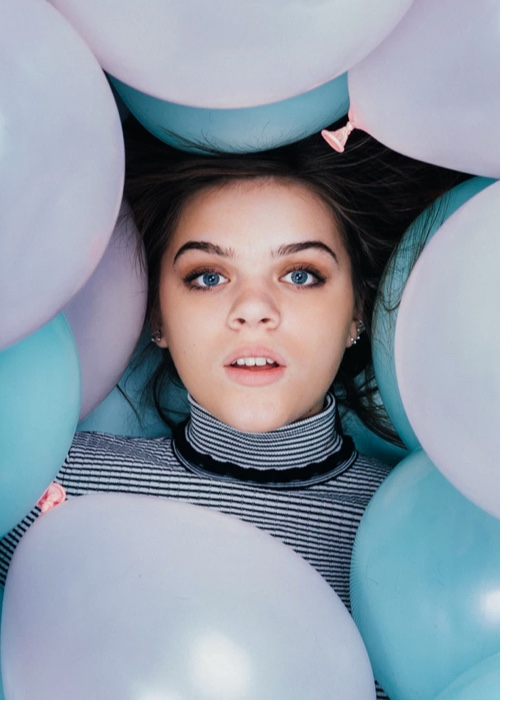
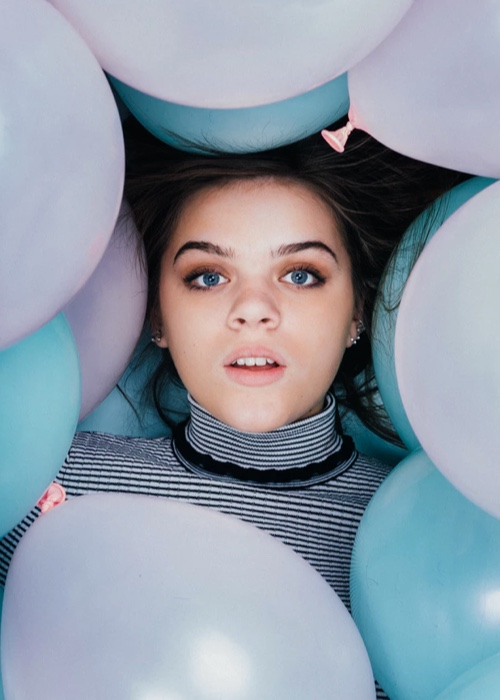
changed some photos and class names

diff --git a/index.html b/index.html
@@ -12,38 +12,47 @@
 	<link rel="icon" href="assets/Favicon.png" type="image/x-icon" />
 </head>
 <body>
+
+	<!-- HEADER SECTION STARTS -->
 	<header class="header">
-		<nav class="header__nav">
-			<ul class=header__list>
-				<li class="header__item">
-					<a href="#" class="header__link header__link--active">Home</a>
+
+		<!-- NAV SECTION -->
+		<nav class="header__nav nav">
+			<ul class=nav__list>
+				<li class="nav__item">
+					<a href="index.html" class="nav__link nav__link--active">Home</a>
 				</li>
-				<li class="header__item">
-					<a href="#" class="header__link">About</a>
+				<li class="nav__item">
+					<a href="#" class="nav__link">About</a>
 				</li>
-				<li class="header__item">
-					<h2 class="header__item header__item--title content-heading">Harper</h2>
+				<li class="nav__item">
+					<h2 class="nav__item nav__item--title content-heading">Harper</h2>
 				</li>
-				<li class="header__item">
-					<a href="#" class="header__link">Blog</a>
+				<li class="nav__item">
+					<a href="blog.html" class="nav__link">Blog</a>
 				</li>
-				<li class="header__item">
-					<a href="#" class="header__link">Contact</a>
+				<li class="nav__item">
+					<a href="contact.html" class="nav__link">Contact</a>
 				</li>
 			</ul>
 		</nav>
+
+		<!-- HEADER HERO CONTENT -->
 		<div class="header__wrapper wrapper">
-			<div>
-				<div>
-					<img src="/assets/home-image-1.jpg" alt="">
-				</div>
-				<div>
-					<h1 class="main-heading">Harper</h1>
-				</div>
+			<div class="header__img-container">
+				<img class="header__img img" src="/assets/home-image-1.jpg" alt="a portrait of a young person laying down surrounded by balloons">
+			</div>
+			<div class="header__hero-text-container">
+				<h1 class="header__hero-text main-heading">Harper</h1>
 			</div>
 		</div>
 	</header>
+	<!-- HEADER ENDS -->
+
+	<!-- MAIN STARTS -->
 	<main>
+
+		<!-- BIO SECTION -->
 		<section class="bio">
 			<div class="wrapper">
 				<div>
@@ -122,6 +131,7 @@
 			</div>
 		</section>
 	</main>
+	<!-- FOOTER STARTS -->
 	<footer class="footer">
 		<p class="footer__text copy-text">Copyright &copy;2018 HackerYou</p>
 	</footer>

diff --git a/style.css b/style.css
@@ -237,6 +237,10 @@ a {
   font-size: 2rem;
   line-height: 32px; }
 
+.img {
+  width: 100%;
+  display: block; }
+
 .btn {
   font-family: "Oswald", sans-serif;
   padding: 20px 40px;
@@ -253,36 +257,35 @@ a {
   background: #171717;
   color: #f38d8d; }
 
-.header__nav {
+.nav {
   background: #b9dde7; }
-
-.header__list {
-  display: -webkit-box;
-  display: -ms-flexbox;
-  display: flex;
-  -webkit-box-pack: center;
-  -ms-flex-pack: center;
-  justify-content: center;
-  -webkit-box-align: center;
-  -ms-flex-align: center;
-  align-items: center; }
-
-.header__link {
-  padding: 10px 40px;
-  font-family: "Oswald", sans-serif;
-  color: #171717;
-  text-transform: uppercase;
-  letter-spacing: 2px;
-  -webkit-transition: color .2s;
-  -o-transition: color .2s;
-  transition: color .2s; }
-  .header__link:hover {
-    color: #4a4a4a; }
-  .header__link--active {
-    color: #f6f6f6; }
-
-.header__item--title {
-  padding: 0 50px; }
+  .nav__list {
+    display: -webkit-box;
+    display: -ms-flexbox;
+    display: flex;
+    -webkit-box-pack: center;
+    -ms-flex-pack: center;
+    justify-content: center;
+    -webkit-box-align: center;
+    -ms-flex-align: center;
+    align-items: center; }
+  .nav__link {
+    padding: 10px 40px;
+    font-family: "Oswald", sans-serif;
+    color: #171717;
+    text-transform: uppercase;
+    letter-spacing: 2px;
+    -webkit-transition: color .2s;
+    -o-transition: color .2s;
+    transition: color .2s; }
+    .nav__link:hover {
+      color: #4a4a4a; }
+    .nav__link--active {
+      color: #f6f6f6; }
+      .nav__link--active:hover {
+        color: #f6f6f6; }
+  .nav__item--title {
+    padding: 0 50px; }
 
 .footer {
   background: #171717; }

diff --git a/partials/_navAndFooter.scss b/partials/_navAndFooter.scss
@@ -1,7 +1,8 @@
-.header{
-    &__nav {
-        background: $main-color;
-    }
+
+// NAV STYLES
+
+.nav {
+    background: $main-color;
 
     &__list {
     // width: 60%;
@@ -11,24 +12,31 @@
     }
 
     &__link {
-        padding: 10px 40px;
-        font-family: $primary-font;
-        color: $black;
-        text-transform: uppercase;
-        letter-spacing: 2px;
-        transition: color .2s;
+    padding: 10px 40px;
+    font-family: $primary-font;
+    color: $black;
+    text-transform: uppercase;
+    letter-spacing: 2px;
+    transition: color .2s;
+
         &:hover {
             color: lighten($black, 20);
         }
         &--active {
             color: $white;
+            &:hover{
+                color: $white;
+            }
         }
+        
     }
 
     &__item--title {
         padding: 0 50px;
     }
-}  
+} 
+
+// FOOTER STYLES
 
 .footer {
     background: $black;

diff --git a/blog.html b/blog.html
@@ -12,6 +12,34 @@
     <link rel="icon" href="assets/Favicon.png" type="image/x-icon" />
 </head>
 <body>
+	<header class="header">
+		<nav class="header__nav nav">
+			<ul class=nav__list>
+				<li class="nav__item">
+					<a href="index.html" class="nav__link ">Home</a>
+				</li>
+				<li class="nav__item">
+					<a href="#" class="nav__link">About</a>
+				</li>
+				<li class="nav__item">
+					<h2 class="nav__item nav__item--title content-heading">Harper</h2>
+				</li>
+				<li class="nav__item">
+					<a href="blog.html" class="nav__link nav__link--active">Blog</a>
+				</li>
+				<li class="nav__item">
+					<a href="contact.html" class="nav__link">Contact</a>
+				</li>
+			</ul>
+		</nav>
+	</header>
+	<main>
+
+	</main>
+<!-- FOOTER STARTS -->
+	<footer class="footer">
+		<p class="footer__text copy-text">Copyright &copy;2018 HackerYou</p>
+	</footer>
     
 </body>
 </html>

diff --git a/contact.html b/contact.html
@@ -12,6 +12,33 @@
     <link rel="icon" href="assets/Favicon.png" type="image/x-icon" />
 </head>
 <body>
-    
+	<header class="header">
+		<nav class="header__nav nav">
+			<ul class=nav__list>
+				<li class="nav__item">
+					<a href="index.html" class="nav__link ">Home</a>
+				</li>
+				<li class="nav__item">
+					<a href="#" class="nav__link">About</a>
+				</li>
+				<li class="nav__item">
+					<h2 class="nav__item nav__item--title content-heading">Harper</h2>
+				</li>
+				<li class="nav__item">
+					<a href="blog.html" class="nav__link">Blog</a>
+				</li>
+				<li class="nav__item">
+					<a href="contact.html" class="nav__link nav__link--active">Contact</a>
+				</li>
+			</ul>
+		</nav>
 </body>
+<main>
+
+</main>
+
+<!-- FOOTER STARTS -->
+<footer class="footer">
+	<p class="footer__text copy-text">Copyright &copy;2018 HackerYou</p>
+</footer>
 </html>

diff --git a/partials/_global.scss b/partials/_global.scss
@@ -9,7 +9,7 @@ $primary-font:  'Oswald', sans-serif;
 $secondary-font:  'Cabin', sans-serif;
 
 // MIXINS
-@mixin header-text($size) {
+@mixin heading-text($size) {
   font-family: $primary-font;
   color: $black;
   font-size: $size*1px;
@@ -24,16 +24,17 @@ $secondary-font:  'Cabin', sans-serif;
 	width: 80%;
 	margin: 0 auto;
 }
+
 .main-heading {
-	@include header-text(80);
+	@include heading-text(80);
 }
 
 .section-heading {
-	@include header-text(42);
+	@include heading-text(42);
 }
 
 .content-heading {
-	@include header-text(32)
+	@include heading-text(32)
 }
 
 
@@ -42,6 +43,11 @@ $secondary-font:  'Cabin', sans-serif;
   color: $black;
   font-size: 2rem;
   line-height: 32px;
+}
+
+.img {
+  width: 100%;
+  display: block;
 }
 
 .btn  {
